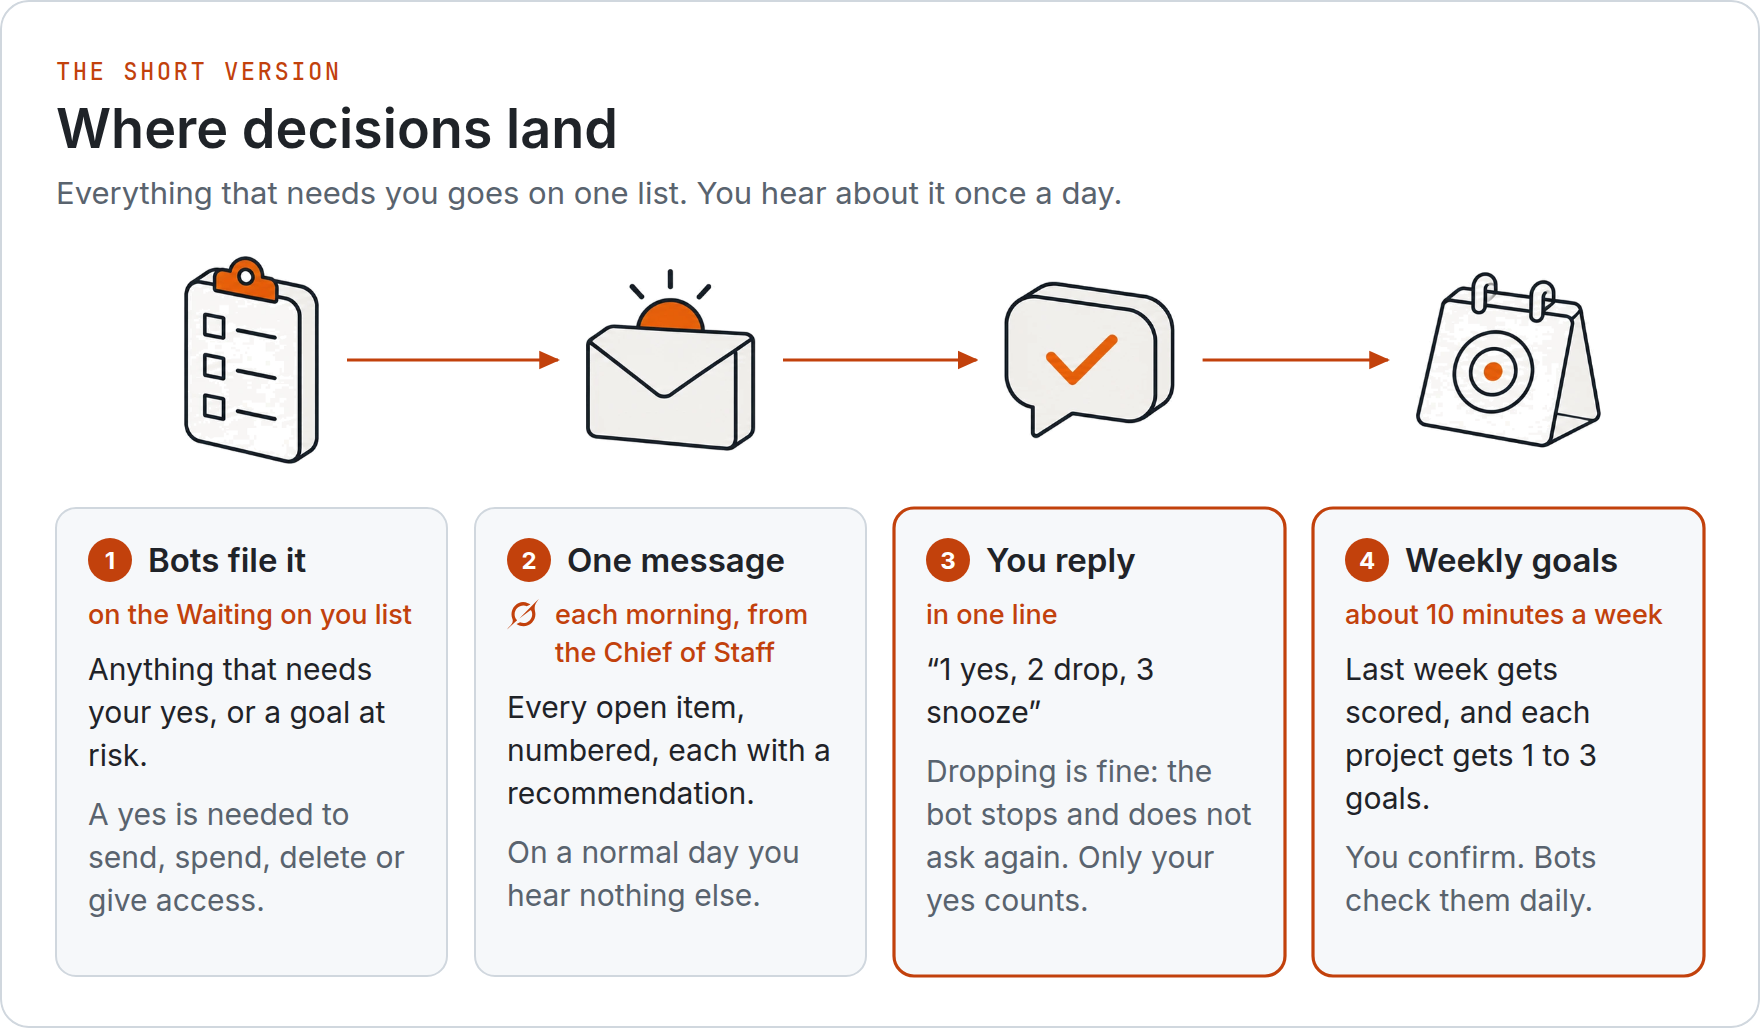
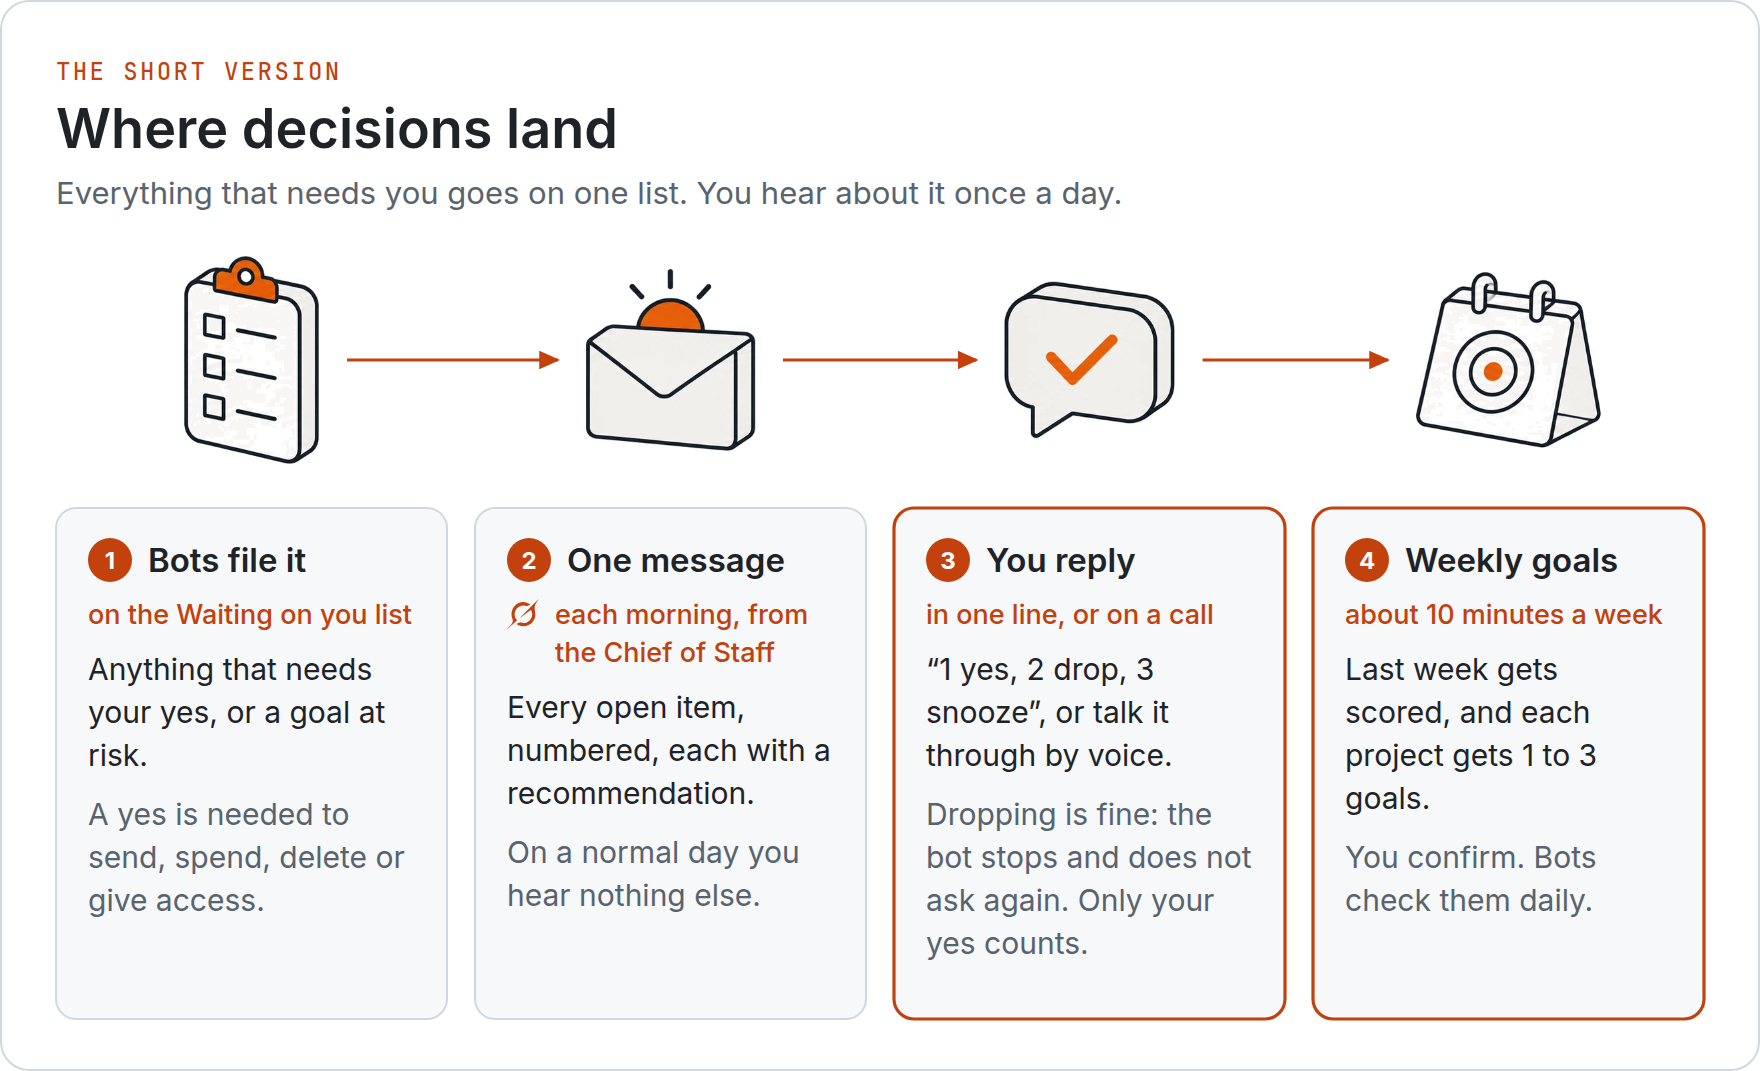
README diagrams: short pictures only, swimlanes in docs, morning review call
- README keeps the four short pictures, one sentence each, with a link to
  each step-by-step swimlane in docs/how-it-works.md (about 39% of the old
  section height).
- which-tool-when swimlane: the questions the bot weighs, not a set order;
  step numbers removed. Image rebuilt.
- New: the morning review call (talk the morning list through by voice with
  the Chief of Staff in the Grok Bot app). README, how-it-works, routines,
  and one line on the decisions picture (rebuilt).

Agent: claude/claude-opus-5-5 task t20261119032600-99c0b9

diff --git a/docs/images/src/build.py b/docs/images/src/build.py
@@ -562,8 +562,8 @@ def decisions_and_goals():
          ("One message", "each morning, from the Chief of Staff", ["grok"],
           ["Every open item, numbered, each with a recommendation.",
            "On a normal day you hear nothing else."], False),
-         ("You reply", "in one line", None,
-          ["“1 yes, 2 drop, 3 snooze”",
+         ("You reply", "in one line, or on a call", None,
+          ["“1 yes, 2 drop, 3 snooze”, or talk it through by voice.",
            "Dropping is fine: the bot stops and does not ask again. Only your yes counts."], True),
          ("Weekly goals", "about 10 minutes a week", None,
           ["Last week gets scored, and each project gets 1 to 3 goals.",
@@ -628,17 +628,17 @@ def which_tool_when():
            "Jobs that run for days go as a chain."], False)], arrows=False), "which-tool-when")
 
     L = Lanes(KICK_C, "Which tool when, step by step",
-              "How a bot picks a route for your ask. It checks these questions in order.",
+              "How a bot picks a route for your ask: the questions it weighs, and where each answer leads.",
               [("You", "in Grok chat", None),
                ("Your bot", "a Grok Bot decides, and does quick things itself", ["grok"]),
                ("Connectors", "Grok Bot connectors to your accounts", ["grok"]),
                ("treg", "pay per call data", None),
                ("The worker", "Claude Code or Codex", ["claude", "openai"])])
-    L.card("ask", 0, 0, "Ask", "anything, in plain words", 1, "you")
-    L.card("q1", 1, 1, "Code, or over ~15 min?", "also design, deep research, bulk scraping, a set model", 2)
-    L.card("q2", 3, 1, "Your own account?", "Gmail, Slack, calendar, analytics, docs", 3)
-    L.card("q3", 5, 1, "Paid data?", "keywords, search results, enrichment", 4)
-    L.card("self", 7, 1, "Bot does it", "lookups, messages, short drafts", 5)
+    L.card("ask", 0, 0, "Ask", "anything, in plain words", None, "you")
+    L.card("q1", 1, 1, "Code, or over ~15 min?", "also design, deep research, bulk scraping, a set model", None)
+    L.card("q2", 3, 1, "Your own account?", "Gmail, Slack, calendar, analytics, docs", None)
+    L.card("q3", 5, 1, "Paid data?", "keywords, search results, enrichment", None)
+    L.card("self", 7, 1, "Bot does it", "lookups, messages, short drafts", None)
     L.card("worker", 2, 4, "Worker task", "any size of code; a draft PR comes back. Jobs that run for days: a chain", None)
     L.card("exec", 4, 4, "Executor, later", "only if a worker task needs your connected tools too", None, "plain")
     L.card("conn", 4, 2, "Use a connector", "quick reads and drafts; nothing sent without your yes", None)

diff --git a/docs/how-it-works.md b/docs/how-it-works.md
@@ -1,13 +1,15 @@
 # How it works, in four pictures
 
-The long version of the four diagrams in the [README](../README.md#how-it-works-in-four-pictures).
+The long version of the four diagrams in the [README](../README.md#how-it-works-in-four-pictures):
+each topic has the short picture, then a step-by-step swimlane. Orange outlines are the only places
+you act, and dashed cards are the "model gets stuck" loop.
 For flow charts and states, see [how-it-works-technical.md](how-it-works-technical.md).
 
 ## Who does what
 
 ![Four columns: you, the Chief of Staff, one project bot per project, and the worker that runs Claude Code or Codex.](images/who-does-what.png)
 
-![Who does what, step by step, as swimlanes.](images/who-does-what-steps.png)
+![Who does what on a normal day, in swimlanes: the morning list, your one-line reply, the project bot queues a task, the worker does it, a draft PR, and the result goes straight back to the bot that asked.](images/who-does-what-steps.png)
 
 You talk to your Grok Bots: a Chief of Staff plus one bot per project. They plan, draft and keep
 track. The worker is a rented server that does the long or hard jobs with Claude or Codex, and
@@ -17,7 +19,7 @@ sends the result back to the bot that asked.
 
 ![You ask, the bot plans, the worker does it, you review a draft pull request.](images/request-journey.png)
 
-![Request journey, step by step, as swimlanes.](images/request-journey-steps.png)
+![A request's journey in swimlanes: ask, brief, queue, claim, work, publish, draft PR, notify, check, merge, with a dashed loop for when the model gets stuck.](images/request-journey-steps.png)
 
 You ask your website bot to refresh the pricing page. The bot writes up the job, the worker does it
 with Claude or Codex, and the result goes straight back to that same bot. The bot checks it and
@@ -26,9 +28,9 @@ or asks you if only you can decide. More in [results-routing.md](results-routing
 
 ## Where decisions land
 
-![Bots file decisions on one Waiting on you list, the Chief of Staff sends one morning message, you reply in one line, and a weekly goals meeting sets 1 to 3 goals per project.](images/decisions-and-goals.png)
+![Bots file decisions on one Waiting on you list, the Chief of Staff sends one morning message, you reply in one line or talk it through on a voice call, and a weekly goals meeting sets 1 to 3 goals per project.](images/decisions-and-goals.png)
 
-![Decisions and goals, step by step, as swimlanes.](images/decisions-and-goals-steps.png)
+![Where decisions land in swimlanes: items are filed during the day, sent as one morning list, answered by you, and routed back to the bot or task that asked; the weekly goals meeting runs once a week.](images/decisions-and-goals-steps.png)
 
 Anything that needs you goes on one "Waiting on you" list, and the Chief of Staff sends it to you as
 one short message each morning. Once a week the Chief of Staff runs a goals meeting: what each
@@ -36,13 +38,28 @@ project got done, and one to three clear goals for next week. Between meetings e
 checks its goals daily and stays quiet unless a goal is at risk. More in
 [approvals.md](approvals.md) and [goals-and-heartbeat.md](goals-and-heartbeat.md).
 
+### The morning review call
+
+You do not have to answer the morning list by typing. The Chief of Staff rolls up every open question
+and action item from overnight and the previous day into that one list. You can then start a voice
+conversation with the Chief of Staff in the Grok Bot app and go through the items back and forth,
+hands free, for example on a drive. Ask what an item is about, push back on a recommendation, or
+just say "yes", "snooze" or "drop it".
+
+When the call ends, the Chief of Staff does the same as for a typed reply: it writes each answer to
+its item on the Waiting on you list (answered, snoozed or dropped), which also logs it as a decision
+for that project, and it messages the project bots so they get back to work. If a worker task was
+waiting on one of those answers, it goes back in the queue and carries on. Only what you actually
+said counts as your yes.
+
 ## Which tool when
 
 ![Four routes: the bot itself, Grok Bot connectors, treg, and the worker.](images/which-tool-when.png)
 
-![Which tool when, step by step, as swimlanes.](images/which-tool-when-steps.png)
+![Which tool when in swimlanes: the questions a bot weighs (is it code or long, does it use your own account, does it need paid data) and the route each answer leads to; otherwise the bot does it itself.](images/which-tool-when-steps.png)
 
-Grok Bot connectors for your own accounts. treg for paid data without a subscription, and for some
-of your private tools like Search Console and Google Ads. The worker for all coding and anything
+The swimlane shows the questions a bot weighs for each ask, not a fixed checklist. Grok Bot
+connectors for your own accounts. treg for paid data without a subscription, and for some of your
+private tools like Search Console and Google Ads. The worker for all coding and anything
 long. Executor only later, if the worker needs your connected tools too. The full guide is
 [which-tool-when.md](which-tool-when.md).

diff --git a/README.md b/README.md
@@ -24,38 +24,31 @@ does the long, heavy jobs for them on the Claude and ChatGPT subscriptions you a
 
 ## How it works, in four pictures
 
-Each topic has a short version and a step-by-step version; orange outlines mark the only places you
-act, and [docs/how-it-works.md](docs/how-it-works.md) tells the longer story.
+Orange outlines mark where you act. The longer story is in [docs/how-it-works.md](docs/how-it-works.md).
 
 ### Who does what
 
 <img src="docs/images/who-does-what.png" width="800" alt="Four columns: you, the Chief of Staff, one project bot per project, and the worker that runs Claude Code or Codex.">
 
-![A normal day in swimlanes: the morning list, your one-line reply, the project bot queues a task, the worker does it, a draft PR, and the result goes straight back to the bot that asked.](docs/images/who-does-what-steps.png)
-
-You talk to your bots; they hand code and long jobs to the worker, and the result comes straight back to the bot that asked.
+Results come straight back to the bot that asked. [See the step-by-step swimlane](docs/how-it-works.md#who-does-what).
 
 ### A request's journey
 
 <img src="docs/images/request-journey.png" width="800" alt="You ask, the bot plans, the worker does it, you review a draft pull request.">
 
-![A request's journey in swimlanes: ask, brief, queue, claim, work, publish, draft PR, notify, check, merge, with a dashed loop for when the model gets stuck.](docs/images/request-journey-steps.png)
-
-Task states run queued, running, done; the dashed cards only happen when the model stops with a question.
+The worker opens a draft pull request; only you merge. [See the step-by-step swimlane](docs/how-it-works.md#a-requests-journey).
 
 ### Where decisions land
 
-<img src="docs/images/decisions-and-goals.png" width="800" alt="Bots file decisions on one Waiting on you list, the Chief of Staff sends one morning message, you reply in one line, and a weekly goals meeting sets 1 to 3 goals per project.">
+<img src="docs/images/decisions-and-goals.png" width="800" alt="Bots file decisions on one Waiting on you list, the Chief of Staff sends one morning message, you reply in one line or talk it through on a voice call, and a weekly goals meeting sets 1 to 3 goals per project.">
 
-![Where decisions land in swimlanes: items are filed during the day, sent as one morning list, answered by you, and routed back to the bot or task that asked; the weekly goals meeting runs once a week.](docs/images/decisions-and-goals-steps.png)
+Answer in one line, or on a [voice call](#the-morning-review-call). [See the step-by-step swimlane](docs/how-it-works.md#where-decisions-land).
 
 ### Which tool when
 
 <img src="docs/images/which-tool-when.png" width="800" alt="Four routes: the bot itself, Grok Bot connectors, treg, and the worker.">
 
-![Which tool when in swimlanes: the bot asks whether it is code or long, then whether it uses your own account, then whether it needs paid data, and otherwise does it itself.](docs/images/which-tool-when-steps.png)
-
-More detail in the [short version below](#which-tool-when-short-version) and [docs/which-tool-when.md](docs/which-tool-when.md).
+Also as a [table below](#which-tool-when-short-version). [See the step-by-step swimlane](docs/how-it-works.md#which-tool-when).
 
 ## What you need
 
@@ -139,6 +132,8 @@ worker, or an afternoon with one.
   sends you one short list of decisions each morning.
 - **A project bot for each project.** A business, a website, an app, your marketing. Each one owns its
   project from end to end and knows its goals, people and limits.
+- **A morning review call.** You can also talk the morning list through out loud.
+  [More below](#the-morning-review-call).
 - **A weekly goals meeting and a daily work heartbeat.** Clear goals each week, a quiet daily check, and
   a nudge only when something is stuck.
 - **A project log.** Every project, with or without code, keeps a history of what was done, what you
@@ -151,6 +146,16 @@ worker, or an afternoon with one.
   or drop each one. Dropping is fine.
 - **Light rules.** Nothing goes outside, nothing is deleted, and no money is spent without your yes.
   Everything else just gets done.
+
+### The morning review call
+
+Overnight and through the day, your bots file every open question and action item on the Waiting on
+you list. Each morning the Chief of Staff rolls them all up into one list. If you would rather talk
+than type, start a voice conversation with the Chief of Staff in the Grok Bot app and go through the
+items back and forth, hands free, for example on a drive. You can ask what an item means, push back
+on a recommendation, or say "drop it". When the call ends, the Chief of Staff writes each answer to its
+item on the list (answered, snoozed or dropped), which also logs it as a decision for that project, and
+messages the project bots so they get back to work on it. A worker task that was waiting on one of those answers picks up again on its own.
 
 ## Which tool when (short version)
 

diff --git a/docs/routines.md b/docs/routines.md
@@ -41,7 +41,7 @@ If you make a folder by hand on the worker, put it in `/home/agent/work/scratch/
 
 ### Morning decision batch
 
-The Waiting on you list (`GET /waiting?status=due`) holds every open decision and every task waiting on the human. The Chief of Staff reads it once a day and sends one numbered message. You reply in one line, for example "1 yes, 2 drop, 3 snooze". "Drop" means "don't need it": the bot stops work on that ask and must not file it again. Dropping is guilt-free. That is the point of the list.
+The Waiting on you list (`GET /waiting?status=due`) holds every open decision and every task waiting on the human. The Chief of Staff reads it once a day and sends one numbered message. You reply in one line, for example "1 yes, 2 drop, 3 snooze". "Drop" means "don't need it": the bot stops work on that ask and must not file it again. Dropping is guilt-free. That is the point of the list. You can also go through the list by voice with the Chief of Staff in the Grok Bot app; see [the morning review call](how-it-works.md#the-morning-review-call).
 
 ### Weekly goals meeting and daily work heartbeat
 

diff --git a/docs/goals-and-heartbeat.md b/docs/goals-and-heartbeat.md
@@ -4,7 +4,7 @@ Two habits keep your bots moving without you chasing them: a **weekly goals meet
 three clear goals per project, and a **daily work heartbeat** where each project bot checks its own
 goals and stays quiet unless something is stuck.
 
-![Bots file decisions on one Waiting on you list, the Chief of Staff sends one morning message, you reply in one line, and a weekly goals meeting sets 1 to 3 goals per project.](images/decisions-and-goals.png)
+![Bots file decisions on one Waiting on you list, the Chief of Staff sends one morning message, you reply in one line or talk it through on a voice call, and a weekly goals meeting sets 1 to 3 goals per project.](images/decisions-and-goals.png)
 
 The copy-paste prompts are in [../templates/routine-prompts.md](../templates/routine-prompts.md)
 (prompts 6 and 7). The goals file format is in [../templates/goals.md](../templates/goals.md).

diff --git a/docs/images/src/README.md b/docs/images/src/README.md
@@ -35,5 +35,6 @@ cat docs/images/src/prompts/who-does-what.txt docs/images/src/prompts/_style.txt
 Save it as `strips/<topic>.webp`. The objects are found by the white gaps between them, so the
 prompt must keep exactly four objects with clear space in between.
 
-Text sizes are set for the README: the short version is shown at 800 px wide and the step-by-step
-version at GitHub's full README width (about 840 px), so no text ends up under about 12 px.
+Text sizes are set for GitHub: the short version is shown in the README at 800 px wide, and the
+step-by-step version in docs/how-it-works.md at GitHub's full content width (about 840 px), so no text
+ends up under about 12 px.
